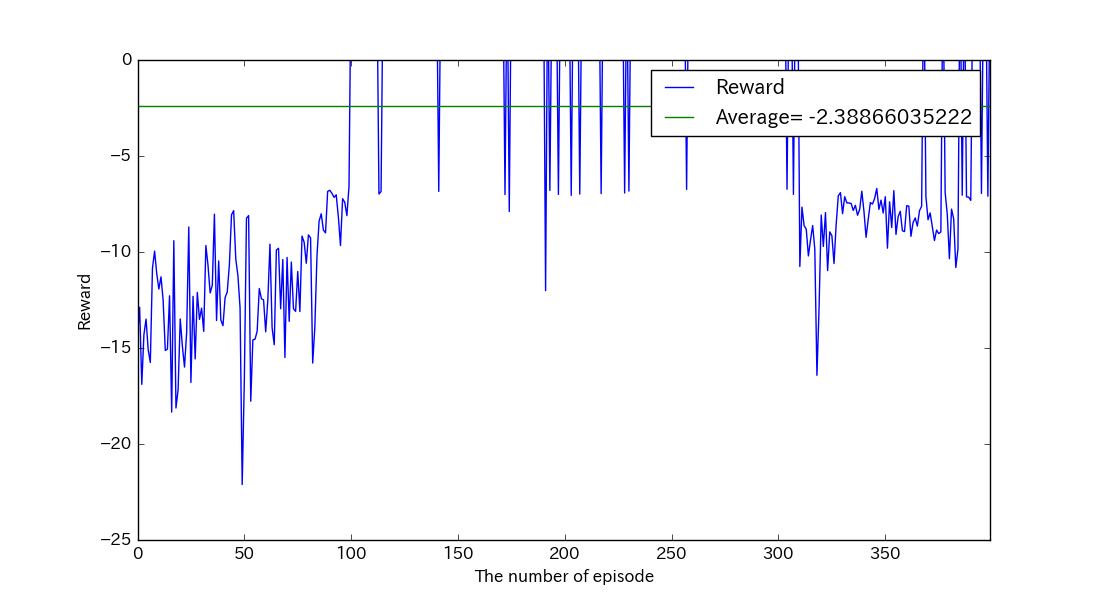
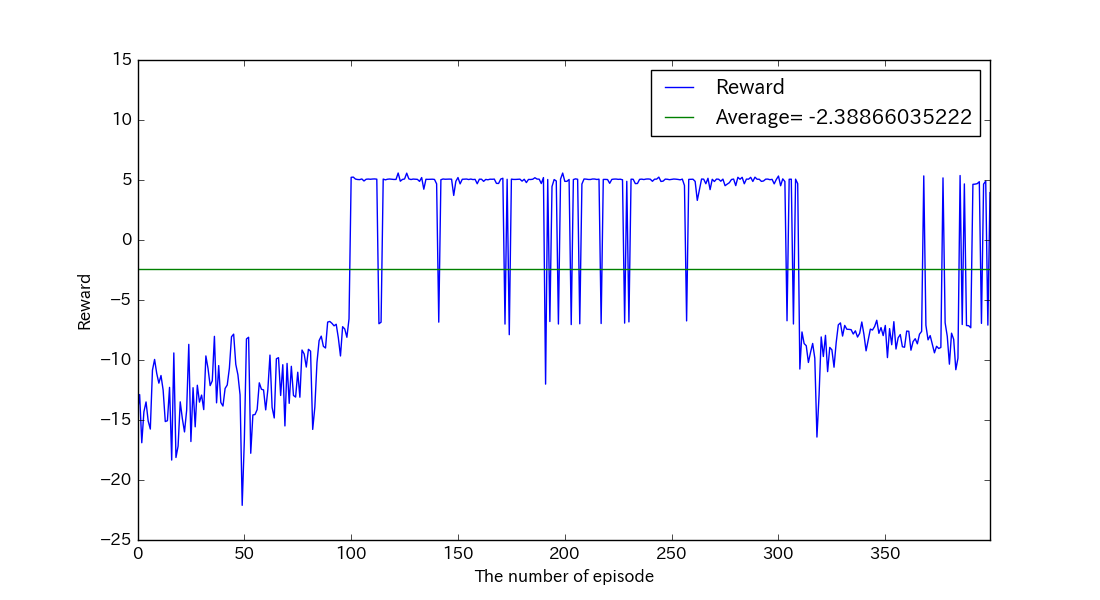
[change] y_lim of reward figure

diff --git a/pepper_training/src/body_action.py b/pepper_training/src/body_action.py
@@ -84,12 +84,12 @@ class BodyAction(object):
         # Set current point (type is JointTrajectoryPoint)
         current_point = JointTrajectoryPoint()
         current_point.positions = current_positions
-        current_point.time_from_start = rospy.Duration(0.25)
+        current_point.time_from_start = rospy.Duration(0.20)
 
         # Set next point (type is JointTrajectoryPoint)
         next_point = JointTrajectoryPoint()
         next_point.positions = next_positions
-        next_point.time_from_start = rospy.Duration(0.8)
+        next_point.time_from_start = rospy.Duration(0.6)
         
         # Set goal
         self.goal = FollowJointTrajectoryGoal()
@@ -97,7 +97,6 @@ class BodyAction(object):
         self.goal.trajectory.points = [current_point, next_point]
         self.goal.trajectory.header.stamp = rospy.Time.now() + rospy.Duration(0.25)
 
-        rospy.loginfo("Before send goal")
         self._right_arm_action_client.send_goal(self.goal)
         rospy.loginfo("Success" if self._right_arm_action_client.wait_for_result() else "Failed")
 

diff --git a/pepper_training/src/result_controller.py b/pepper_training/src/result_controller.py
@@ -4,6 +4,7 @@ import matplotlib.pyplot as plt
 import numpy as np
 import pandas as pd
 import rospkg
+import sys
 
 from result import Result
 
@@ -50,8 +51,11 @@ class ResultController():
     plt.xlabel("The number of episode")
     plt.ylabel("Reward")
 
-    plt.ylim([-25.0, -0.0])
+    plt.ylim([-25.0, 15.0])
     plt.legend()
     plt.savefig(self.reward_fig)
 
-
+if __name__ == '__main__':
+  file_name_end = sys.argv[1] if len(sys.argv)==2 else ''
+  result_controller = ResultController(file_name_end)
+  result_controller.plot_reward()
